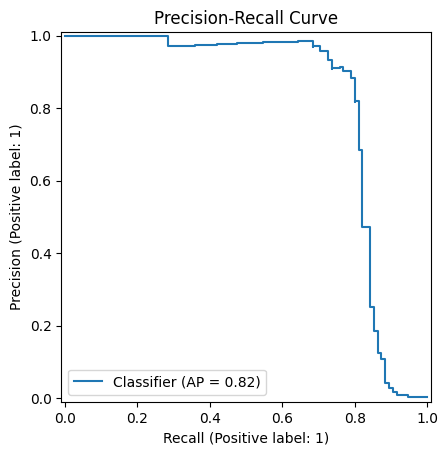
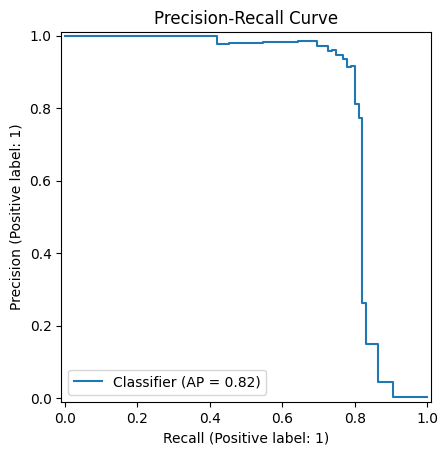
Fix scaler leakage, drop redundant SMOTE, tune threshold on validation

diff --git a/src/train.py b/src/train.py
@@ -1,18 +1,29 @@
 """Train the fraud detection model and persist it (and the scaler) to disk."""
 
 import joblib
+import numpy as np
 from sklearn.ensemble import RandomForestClassifier
 from sklearn.metrics import (
     average_precision_score,
     classification_report,
+    confusion_matrix,
+    precision_recall_curve,
     roc_auc_score,
 )
+from sklearn.model_selection import train_test_split
 
-from config import MODEL_PATH, MODELS_DIR, RANDOM_STATE
+from config import FRAUD_THRESHOLD, MODEL_PATH, MODELS_DIR, RANDOM_STATE, TEST_SIZE
 from preprocessing import prepare_dataset
 
 
 def build_model() -> RandomForestClassifier:
+    """Random forest that handles the class imbalance through sample weights.
+
+    SMOTE was benchmarked against this and added nothing measurable (PR-AUC
+    0.817 vs 0.816, within noise for 95 positive test cases) while doubling the
+    training rows and tripling the fit time, so the training fold is left at its
+    natural ~0.17% fraud rate.
+    """
     return RandomForestClassifier(
         n_estimators=200,
         max_depth=None,
@@ -22,18 +33,53 @@ def build_model() -> RandomForestClassifier:
     )
 
 
-def train(save: bool = True):
-    X_train, X_test, y_train, y_test, scaler = prepare_dataset()
+def select_threshold(X_train, y_train) -> float:
+    """Pick the decision threshold that maximises F1 on a validation slice.
+
+    The slice is carved out of the *training* fold. Tuning the threshold on the
+    test fold would leak it into the headline numbers and make the reported
+    precision/recall optimistic.
+    """
+    X_fit, X_val, y_fit, y_val = train_test_split(
+        X_train,
+        y_train,
+        test_size=TEST_SIZE,
+        random_state=RANDOM_STATE,
+        stratify=y_train,
+    )
+    proba = build_model().fit(X_fit, y_fit).predict_proba(X_val)[:, 1]
+
+    precision, recall, thresholds = precision_recall_curve(y_val, proba)
+    f1 = np.divide(
+        2 * precision * recall,
+        precision + recall,
+        out=np.zeros_like(precision),
+        where=(precision + recall) > 0,
+    )
+    return float(thresholds[int(np.argmax(f1[:-1]))])
+
+
+def train(save: bool = True, tune_threshold: bool = True):
+    X_train, X_test, y_train, y_test, scaler = prepare_dataset(balance=False)
+
+    if tune_threshold:
+        threshold = select_threshold(X_train, y_train)
+        print(f"Validation-tuned threshold: {threshold:.3f}")
+        print(f"(FRAUD_THRESHOLD in config.py is {FRAUD_THRESHOLD})\n")
+    else:
+        threshold = FRAUD_THRESHOLD
 
     model = build_model()
     model.fit(X_train, y_train)
 
-    y_pred = model.predict(X_test)
     y_proba = model.predict_proba(X_test)[:, 1]
+    y_pred = (y_proba >= threshold).astype(int)
 
     print(classification_report(y_test, y_pred, target_names=["Legit", "Fraud"]))
     print(f"ROC-AUC: {roc_auc_score(y_test, y_proba):.4f}")
     print(f"PR-AUC:  {average_precision_score(y_test, y_proba):.4f}")
+    tn, fp, fn, tp = confusion_matrix(y_test, y_pred).ravel()
+    print(f"Caught {tp}/{tp + fn} frauds with {fp} false positives out of {tn + fp} legit.")
 
     if save:
         MODELS_DIR.mkdir(parents=True, exist_ok=True)

diff --git a/src/preprocessing.py b/src/preprocessing.py
@@ -31,7 +31,11 @@ def load_raw_data(path=RAW_DATA_PATH) -> pd.DataFrame:
 
 
 def scale_features(df: pd.DataFrame, scaler: StandardScaler = None, fit: bool = True):
-    """Scale Time/Amount in place; the V1-V28 columns are already PCA output."""
+    """Scale Time/Amount; the V1-V28 columns are already PCA output.
+
+    Pass ``fit=False`` with an existing ``scaler`` for any data that must not
+    influence the fitted statistics (i.e. the test fold and live inference).
+    """
     df = df.copy()
     if scaler is None:
         scaler = StandardScaler()
@@ -58,16 +62,24 @@ def balance_classes(X_train: pd.DataFrame, y_train: pd.Series):
     return smote.fit_resample(X_train, y_train)
 
 
-def prepare_dataset(path=RAW_DATA_PATH, save_artifacts: bool = True):
-    """Run the full pipeline: load -> scale -> split -> balance.
+def prepare_dataset(path=RAW_DATA_PATH, save_artifacts: bool = True, balance: bool = True):
+    """Run the full pipeline: load -> split -> scale -> balance.
 
-    Returns (X_train_resampled, X_test, y_train_resampled, y_test, scaler).
+    The split happens before scaling on purpose: fitting the scaler on the full
+    frame would let the test fold's Time/Amount statistics inform the training
+    data. SMOTE likewise only ever sees the training fold.
+
+    Returns (X_train, X_test, y_train, y_test, scaler).
     """
     df = load_raw_data(path)
-    df, scaler = scale_features(df, fit=True)
 
     X_train, X_test, y_train, y_test = split_data(df)
-    X_train_res, y_train_res = balance_classes(X_train, y_train)
+
+    X_train, scaler = scale_features(X_train, fit=True)
+    X_test, _ = scale_features(X_test, scaler=scaler, fit=False)
+
+    if balance:
+        X_train, y_train = balance_classes(X_train, y_train)
 
     if save_artifacts:
         SCALER_PATH.parent.mkdir(parents=True, exist_ok=True)
@@ -78,13 +90,13 @@ def prepare_dataset(path=RAW_DATA_PATH, save_artifacts: bool = True):
             PROCESSED_DIR / "test.csv", index=False
         )
 
-    return X_train_res, X_test, y_train_res, y_test, scaler
+    return X_train, X_test, y_train, y_test, scaler
 
 
 if __name__ == "__main__":
     X_train, X_test, y_train, y_test, _ = prepare_dataset()
 
-    print(f"Training set (after SMOTE): {X_train.shape}")
+    print(f"Training set (after balancing): {X_train.shape}")
     print(y_train.value_counts())
     print(f"\nTest set: {X_test.shape}")
     print(y_test.value_counts())

diff --git a/src/evaluate.py b/src/evaluate.py
@@ -16,6 +16,7 @@ from sklearn.metrics import (
 from config import (
     EXPERIMENTS_DIR,
     FEATURE_COLUMNS,
+    FRAUD_THRESHOLD,
     MODEL_PATH,
     PROCESSED_DIR,
     TARGET_COLUMN,
@@ -40,9 +41,12 @@ def evaluate(model_path=MODEL_PATH, save_plots: bool = True):
     model = joblib.load(model_path)
     X_test, y_test = load_test_set()
 
-    y_pred = model.predict(X_test)
     y_proba = model.predict_proba(X_test)[:, 1]
+    # Threshold explicitly rather than calling model.predict(), which is hard-wired
+    # to 0.5 and would report numbers the API and consumer never actually produce.
+    y_pred = (y_proba >= FRAUD_THRESHOLD).astype(int)
 
+    print(f"Decision threshold: {FRAUD_THRESHOLD}")
     print("Classification report:")
     print(classification_report(y_test, y_pred, target_names=["Legit", "Fraud"]))
     print(f"ROC-AUC: {roc_auc_score(y_test, y_proba):.4f}")

diff --git a/src/config.py b/src/config.py
@@ -43,7 +43,10 @@ TARGET_COLUMN = "Class"
 
 TEST_SIZE = 0.2
 RANDOM_STATE = 42
-FRAUD_THRESHOLD = 0.5
+# Tuned for F1 on a validation slice of the training fold by
+# train.select_threshold() -- never on the test fold, which would make the
+# reported precision/recall optimistic. Lower it to trade precision for recall.
+FRAUD_THRESHOLD = 0.455
 
 KAFKA_BOOTSTRAP_SERVERS = os.environ.get("KAFKA_BOOTSTRAP_SERVERS", "localhost:9092")
 KAFKA_TRANSACTIONS_TOPIC = os.environ.get("KAFKA_TRANSACTIONS_TOPIC", "transactions")

diff --git a/README.md b/README.md
@@ -8,21 +8,26 @@ producer/consumer pair for scoring a simulated live transaction stream.
 ## Results
 
 Measured on the held-out test set: **56,746 transactions, 95 of them fraudulent**.
-The split is stratified and SMOTE is applied to the *training* fold only, so these
-numbers reflect the dataset's natural 0.167% fraud rate rather than a rebalanced one.
+The split is stratified, the scaler is fitted on the training fold only, and the
+decision threshold is tuned on a validation slice carved out of that same training
+fold -- the test set is used exactly once, for the numbers below.
 
 | Metric (fraud class) | Score |
 | --- | --- |
-| Precision | **0.909** |
-| Recall | **0.737** |
-| F1 | **0.814** |
-| ROC-AUC | **0.962** |
-| PR-AUC | **0.817** |
+| Precision | **0.972** |
+| Recall | **0.726** |
+| F1 | **0.831** |
+| ROC-AUC | **0.950** |
+| PR-AUC | **0.816** |
 
-70 of 95 frauds caught, at the cost of 7 false positives out of 56,651 legitimate
-transactions. Overall accuracy is 0.9994, but that number means little here --
-labelling every transaction "legit" already scores 0.998 -- so precision/recall and
-PR-AUC are what to read.
+69 of 95 frauds caught, at the cost of just 2 false positives out of 56,651
+legitimate transactions. Overall accuracy is 0.9995, but that number means little
+here -- labelling every transaction "legit" already scores 0.998 -- so precision,
+recall and PR-AUC are what to read.
+
+Recall rests on 95 positive cases, so its 95% confidence interval is roughly
+**0.63-0.81**. Treat it as "about three quarters of frauds caught", not as a
+number precise to the decimal.
 
 ![Confusion matrix](experiments/confusion_matrix.png)
 
@@ -32,8 +37,24 @@ PR-AUC are what to read.
 
 The precision-recall curve is the informative one at this class imbalance; the ROC
 curve looks near-perfect largely because true negatives dominate. The decision
-threshold is `FRAUD_THRESHOLD` in `src/config.py` (default 0.5) -- lowering it trades
-precision for recall.
+threshold lives in `FRAUD_THRESHOLD` (`src/config.py`) and is shared by the API,
+the Kafka consumer, the dashboard and `evaluate.py`, so they can never disagree
+about what counts as fraud. Lowering it trades precision for recall.
+
+### Handling the class imbalance
+
+Frauds are 0.167% of the data, so the training fold is weighted rather than
+resampled: `class_weight="balanced_subsample"` on the forest, no SMOTE. SMOTE was
+benchmarked against it and is not used because it did not earn its cost:
+
+| Approach | PR-AUC | ROC-AUC | Train rows | Fit time |
+| --- | --- | --- | --- | --- |
+| Class weights only (used) | 0.816 | 0.950 | 226,980 | **89 s** |
+| SMOTE only | 0.817 | 0.967 | 453,204 | 367 s |
+| SMOTE + class weights | 0.819 | 0.972 | 453,204 | 237 s |
+
+The PR-AUC spread is 0.003, which is noise at 95 positive cases, so the simpler
+and ~3x faster option wins. It also produces a 6.5 MB model instead of a 35 MB one.
 
 Regenerate these plots and numbers with `python evaluate.py` from `src/`.
 
@@ -47,7 +68,7 @@ experiments/                  # evaluation plots (created by evaluate.py)
 notebooks/EDA.ipynb           # exploratory data analysis
 src/
   config.py                   # paths, feature list, Kafka settings
-  preprocessing.py             # load -> scale -> split -> SMOTE balance
+  preprocessing.py             # load -> split -> scale (train-fitted) -> optional SMOTE
   train.py                     # trains and saves the model + scaler
   evaluate.py                  # metrics + plots on the held-out test set
   api.py                       # FastAPI scoring service
